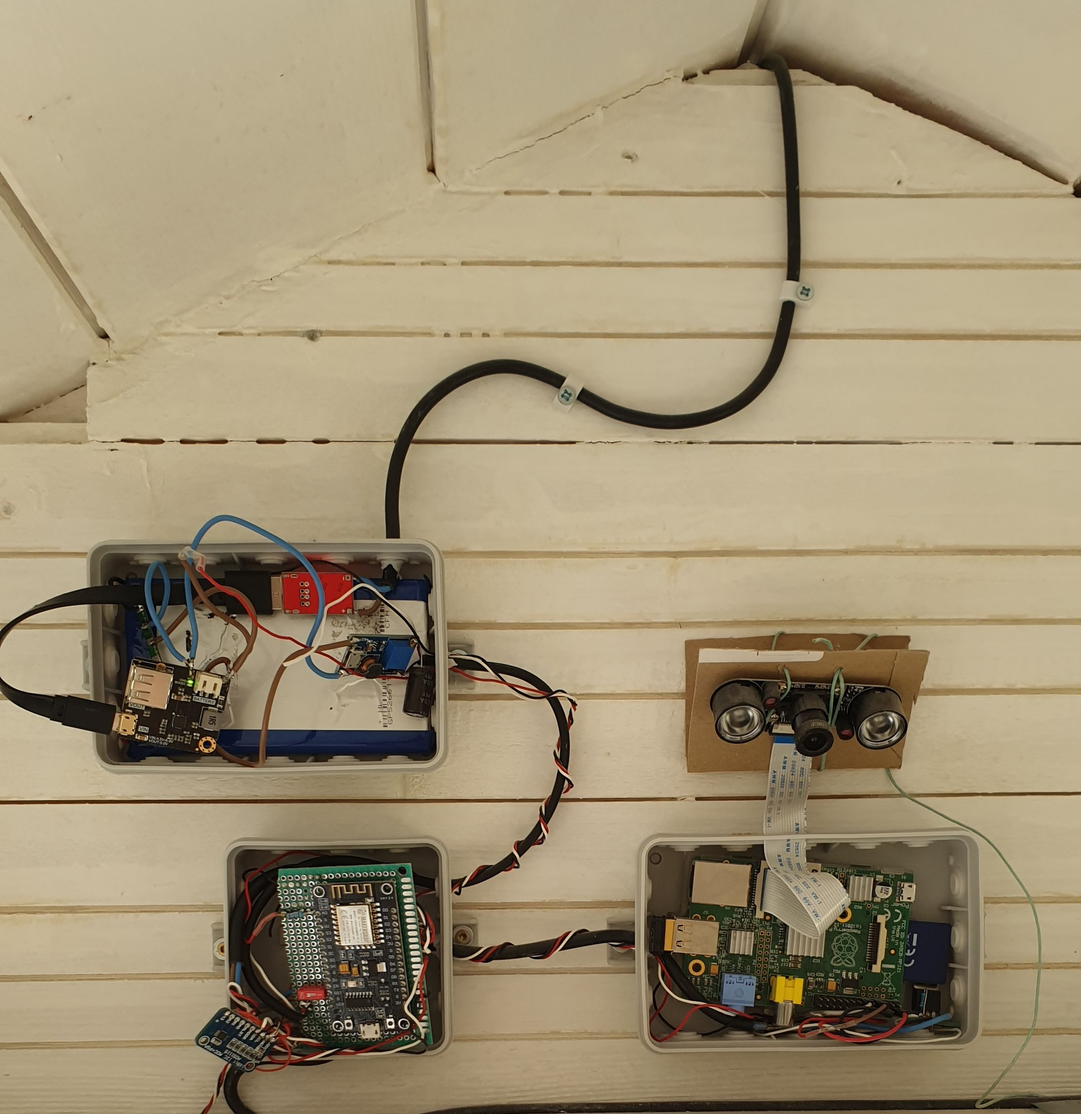
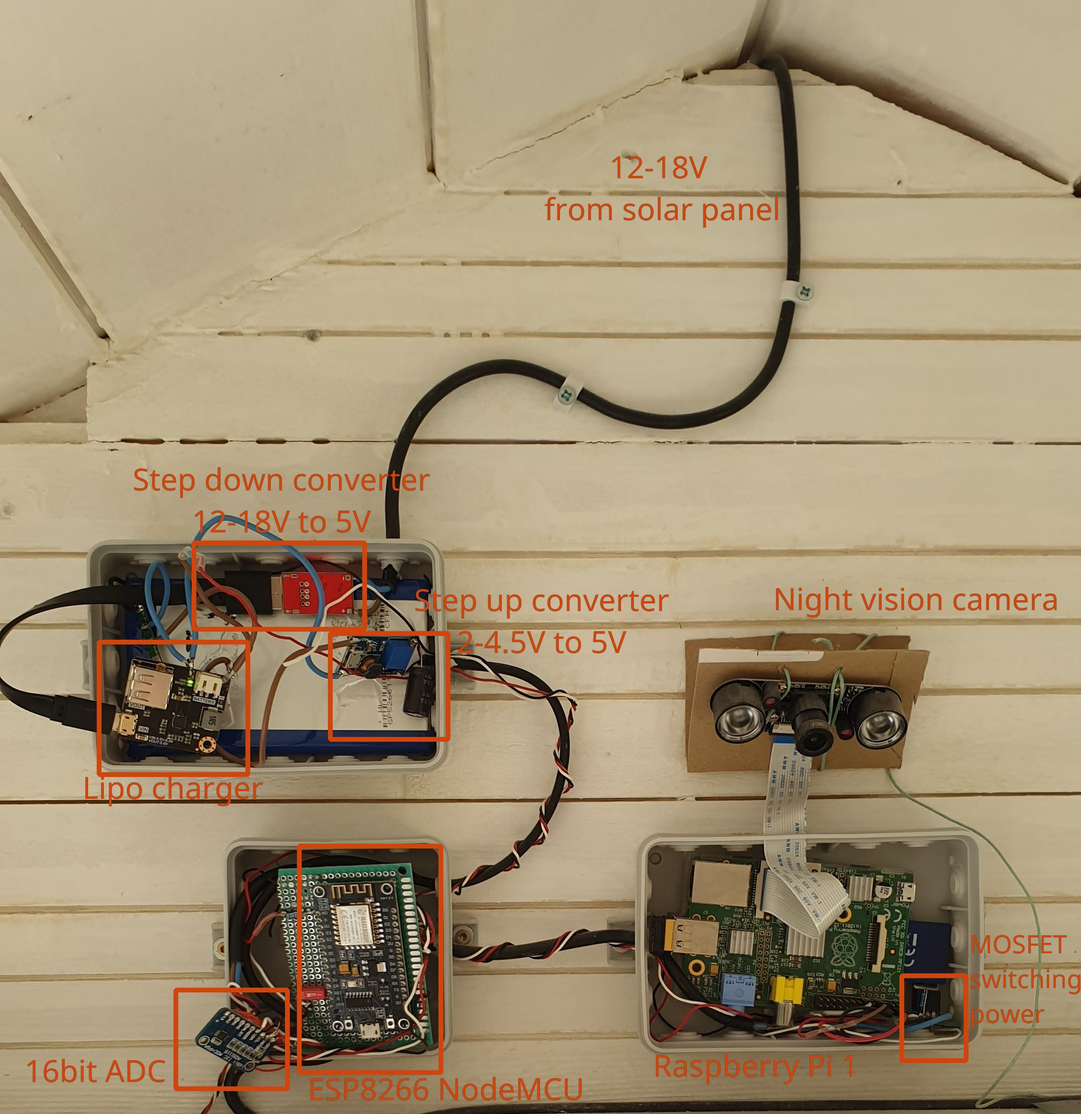
about page update

diff --git a/avenger96/frontend/dodo/src/components/About.vue b/avenger96/frontend/dodo/src/components/About.vue
@@ -3,7 +3,7 @@
         <center>
             <h1 class="pt-2">About</h1>
             
-            This project is about monitoring the temperatures of a hen-coop and provoding remote camera support. Since everything is solar powered, a low power microcontroller (ESP8266) was used as the main controller.
+            This project is about monitoring the temperatures of a hen-coop and provoding remote camera support. Since everything is solar powered, a low power microcontroller was used.
 
             <h2 class="mt-3">Hen-coop</h2>
             The system is powered by a 5 watt solar panel:
@@ -12,10 +12,11 @@
             Taking a look inside, there are some more components involved:
             <v-img alt='MCU' src='@/assets/mcu.jpg' max-width="100%" class="mt-1 mb-5"></v-img>
             <ul style="width:100%; display: inline-block; text-align:left;" class="mt-2">
-                <li>Battery: The 12V from the solar panel are regulated to 5V and are used to charge a lipo battery (10000 mAh) extracted from a standard power bank.</li>
-                <li>ESP8266: The heart of the system. Collects sensor data, can turn on/off the raspberry pi and communicates with the backend. To safe power it is in a deep sleep state most of the time and turns on every 3 minutes to collect fresh sensor data and dispatch tasks received from the backend.</li>
-                <li>Raspberry Pi: Only used for prodiving a camera stream to the backend when turned on.</li>
-                <li>Night vision camera connected to the raspberry pi.</li>
+                <li>Battery: The 12 volts from the solar panel are regulated to 5 volts and are used to charge a lipo battery (10000 mAh), which was extracted from a standard power bank. A Lipo cell operates at around 3.0V - 4.2V, so there is a step up converter needed on the other side for prodiving a stable 5V power source (for the ESP and Raspberry). This may sound not very efficient (which is probably right), but it is sufficient for this use case here.</li>
+                <li>ESP8266 NodeMCU: The low power microcontroller. Collects sensor data, can turn on/off the raspberry pi with the help of a MOSFET and communicates with the backend. To safe power it is in a deep sleep state most of the time and turns on every 3 minutes to collect fresh sensor data and dispatch tasks received from the backend.</li>
+                <li>16 bit ADC: The ESP has a builtin 10 bit ADC, which is used to measure the voltage of the lipo battery (estimation of the state of charge). An additional NTC temperature sensor is connected to the 16bit ADC for measuring the temperature inside the hen-coop. The outside temperature is measured with a digital DHT22 sensor.</li>
+                <li>Raspberry Pi: Only used for prodiving a camera stream to the backend when turned on. Has a minimal Raspbian installation and uses Motion to deliver an http camera stream.</li>
+                <li>Night vision camera: Mostly used for checking whether all the chickens are inside and safe at night (we have some martens running around).</li>
             </ul>
 
             <h2 class="mt-3">Frontend</h2>
@@ -25,7 +26,7 @@
             <h2 class="mt-3">Backend</h2>
             <v-img alt='MCU' src='@/assets/avenger96.jpg' max-width="80%" class="mt-1 mb-5"></v-img>
             <div style="width:100%">
-            The backend runs on a debian linux powered by an Avenger96 board (dual core ARM Cortex-A7 650 MHz + Cortex-M4 209 MHz) and is written in Python with Flask. It provides a small REST-API for the frontend and also serves as a reverse proxy for the camera stream (the raspberry pi provides a http stream which is converted to https by the backend).
+            The backend runs on a debian linux powered by an Avenger96 board (dual core ARM Cortex-A7 650 MHz + Cortex-M4 209 MHz) and is written in Python with Flask. It provides a small REST-API for the frontend and also serves as a reverse proxy for the camera stream (the raspberry pi provides an http stream which is converted to https by the backend).
             </div>
 
 
